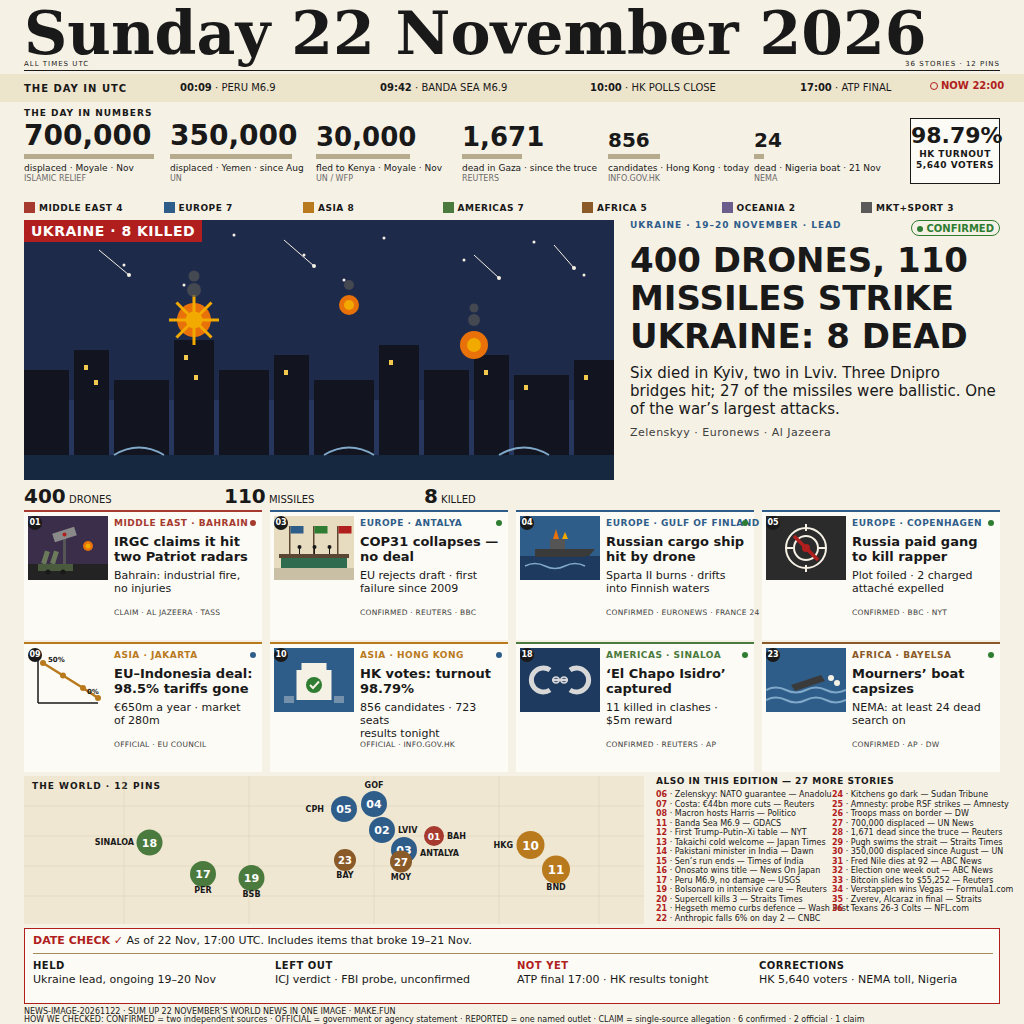
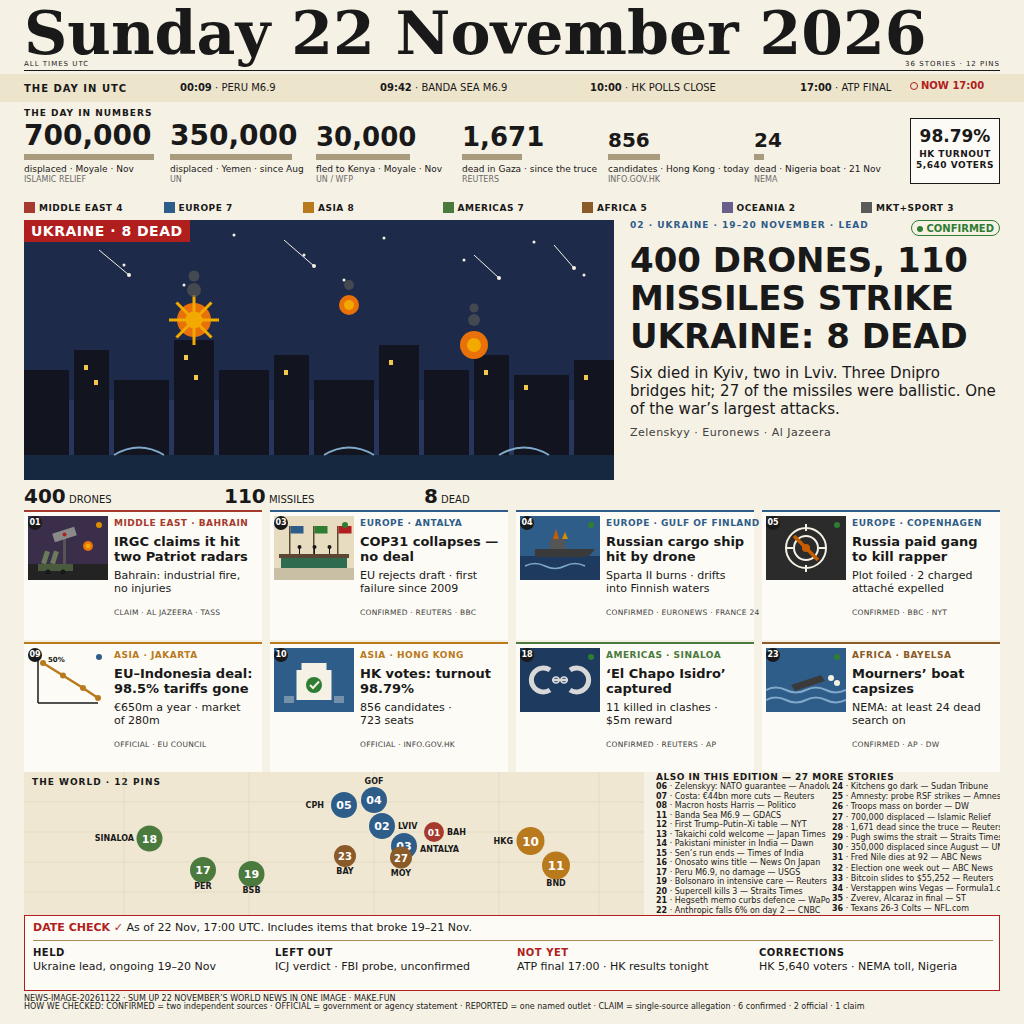
v11: Superbot fix plan (12 steps) — one clock 17:00, ALSO ON clipped, chip re-sized, 8 DEAD x3, red to four uses, footer ends 1010

diff --git a/build/front.html b/build/front.html
@@ -19,11 +19,11 @@ body { width:2048px; height:2048px; background:#F6F1E5; font-family:'DejaVu Sans
 .nlab { position:absolute; left:48px; top:216px; font-size:18px; font-weight:bold; letter-spacing:2px; white-space:nowrap; }
 .nfig { position:absolute; top:212px; width:260px; }
 .nfig .f { font-weight:bold; line-height:1; white-space:nowrap; }
-.nfig .bar { height:10px; background:#B7AB8E; margin-top:8px; }
+.nfig .bar { height:12px; background:#A89B7E; margin-top:8px; }
 .nfig .l { font-size:18px; margin-top:8px; white-space:nowrap; }
 .nfig .s { font-size:16px; color:#6B6B6B; margin-top:2px; white-space:nowrap; }
 .ratechip { position:absolute; left:1820px; top:236px; width:180px; height:132px; border:2px solid #191919; background:#FDFBF5; text-align:center; }
-.ratechip .r { font-size:44px; font-weight:bold; line-height:48px; margin-top:10px; }
+.ratechip .r { font-size:34px; font-weight:bold; line-height:48px; margin-top:10px; }
 .ratechip .t { font-size:18px; font-weight:bold; letter-spacing:1px; margin-top:2px; }
 /* ---- REGION STRIP 396-432 ---- */
 .key { position:absolute; top:396px; height:36px; }
@@ -46,23 +46,24 @@ body { width:2048px; height:2048px; background:#F6F1E5; font-family:'DejaVu Sans
 .card { position:absolute; width:476px; height:260px; background:#FDFBF5; }
 .card .toprule { position:absolute; left:0; top:0; width:476px; height:4px; }
 .card .num { position:absolute; left:8px; top:12px; width:28px; height:28px; border-radius:50%; background:#191919; color:#FFFFFF; font-size:16px; font-weight:bold; text-align:center; line-height:28px; z-index:2; }
-.card .vdot { position:absolute; right:12px; top:20px; width:12px; height:12px; border-radius:50%; z-index:2; }
+.card .vdot { position:absolute; left:144px; top:24px; width:12px; height:12px; border-radius:50%; z-index:2; }
 .card .kick { position:absolute; left:180px; top:16px; font-size:18px; font-weight:bold; letter-spacing:1px; white-space:nowrap; }
 .card .head { position:absolute; left:180px; top:48px; width:284px; font-size:26px; font-weight:bold; line-height:30px; }
 .card .dek { position:absolute; left:180px; top:118px; width:284px; font-size:22px; line-height:26px; color:#191919; }
 .card .src { position:absolute; left:180px; top:196px; font-size:15px; letter-spacing:0.5px; color:#404040; white-space:nowrap; }
 /* ---- MAP + ALSO ON 1552-1848 ---- */
-.mapbox { position:absolute; left:48px; top:1552px; width:1240px; height:296px; background:#EFE7D2; }
+.mapbox { position:absolute; left:48px; top:1544px; width:1240px; height:286px; background:#EFE7D2; overflow:hidden; }
 .mapbox .mlab { position:absolute; left:16px; top:10px; font-size:18px; font-weight:bold; letter-spacing:2px; }
 .pin { position:absolute; border-radius:50%; color:#FFFFFF; font-weight:bold; text-align:center; }
 .pslug { position:absolute; font-size:16px; font-weight:bold; white-space:nowrap; }
-.lst { position:absolute; left:1312px; top:1552px; width:688px; height:296px; }
+.lst { position:absolute; left:1312px; top:1544px; width:688px; height:286px; }
 .lst .lh { font-size:18px; font-weight:bold; letter-spacing:1px; white-space:nowrap; }
-.lst .col { position:absolute; top:28px; width:336px; }
+.lst .col { position:absolute; top:20px; width:336px; overflow:hidden; }
+.lst .col.r .row { line-height:20.4px; }
 .lst .row { font-size:16px; line-height:19px; white-space:nowrap; }
-.lst .row .n { font-weight:bold; color:#B01E1E; }
+.lst .row .n { font-weight:bold; color:#191919; }
 /* ---- DATE CHECK 1856-2008 ---- */
-.dc { position:absolute; left:48px; top:1856px; width:1952px; height:152px; border:3px solid #B01E1E; background:#FDFBF5; }
+.dc { position:absolute; left:48px; top:1830px; width:1952px; height:152px; border:3px solid #B01E1E; background:#FDFBF5; }
 .dc .l { position:absolute; left:16px; top:10px; width:1920px; font-size:22px; white-space:nowrap; }
 .dc .l b { color:#B01E1E; }
 .dc .drule { position:absolute; left:16px; top:48px; width:1920px; border-top:2px solid #A68B5B; }
@@ -79,14 +80,14 @@ body { width:2048px; height:2048px; background:#F6F1E5; font-family:'DejaVu Sans
 <div class="mastsmall" style="right:48px;">36 STORIES &middot; 12 PINS</div>
 <div class="rule" style="left:48px; top:140px; width:1952px; height:2px;"></div>
 
-<!-- THE DAY IN UTC 148-204 : one row, four events at 10px display (20px at 2x), red NOW at 22:00 -->
+<!-- THE DAY IN UTC 148-204 : one row, four events at 10px display (20px at 2x), red NOW at 17:00 -->
 <div class="tlbg"></div>
 <div class="tllab">THE DAY IN UTC</div>
 <div class="tick" style="left:360px;"><b>00:09</b> &middot; PERU M6.9</div>
 <div class="tick" style="left:760px;"><b>09:42</b> &middot; BANDA SEA M6.9</div>
 <div class="tick" style="left:1180px;"><b>10:00</b> &middot; HK POLLS CLOSE</div>
 <div class="tick" style="left:1600px;"><b>17:00</b> &middot; ATP FINAL</div>
-<div class="nowmark" style="left:1860px;"><span class="ring"></span>NOW 22:00</div>
+<div class="nowmark" style="left:1820px;"><span class="ring"></span>NOW 17:00</div>
 
 <!-- THE DAY IN NUMBERS 212-388 : six counts, shared baseline, log-scale bars, 3 numeral steps, rate chip -->
 <div class="nlab">THE DAY IN NUMBERS</div>
@@ -109,14 +110,14 @@ body { width:2048px; height:2048px; background:#F6F1E5; font-family:'DejaVu Sans
 
 <!-- LEAD 440-1012 : one story, full width. Illustration 1180x520 (590x260 display), headline 76px at 2x on 3 lines, dek 30px at 2x on 3 lines, counts row beneath the illustration -->
 <svg class="leadimg" width="1180" height="520" viewBox="0 0 1180 520"><rect width="1180" height="520" fill="#1E2A4A"/><rect y="360" width="1180" height="160" fill="#26365C"/><g fill="#F6F1E5"><circle cx="80" cy="40" r="3"/><circle cx="200" cy="90" r="3"/><circle cx="420" cy="30" r="3"/><circle cx="560" cy="70" r="3"/><circle cx="720" cy="36" r="3"/><circle cx="880" cy="80" r="3"/><circle cx="1020" cy="44" r="3"/><circle cx="1120" cy="110" r="3"/><circle cx="320" cy="130" r="3"/><circle cx="640" cy="120" r="3"/></g><g stroke="#F6F1E5" stroke-width="2"><line x1="150" y1="60" x2="210" y2="110"/><line x1="520" y1="40" x2="580" y2="92"/><line x1="900" y1="70" x2="950" y2="116"/><line x1="1060" y1="50" x2="1100" y2="96"/></g><g fill="#F6F1E5"><circle cx="210" cy="110" r="4"/><circle cx="580" cy="92" r="4"/><circle cx="950" cy="116" r="4"/><circle cx="1100" cy="96" r="4"/></g><g fill="#12141F"><rect x="0" y="300" width="90" height="220"/><rect x="100" y="260" width="70" height="260"/><rect x="180" y="320" width="110" height="200"/><rect x="300" y="240" width="80" height="280"/><rect x="390" y="300" width="100" height="220"/><rect x="500" y="270" width="70" height="250"/><rect x="580" y="320" width="120" height="200"/><rect x="710" y="250" width="80" height="270"/><rect x="800" y="300" width="90" height="220"/><rect x="900" y="270" width="70" height="250"/><rect x="980" y="310" width="110" height="210"/><rect x="1100" y="280" width="80" height="240"/></g><g fill="#F2C94C"><rect x="120" y="290" width="8" height="10"/><rect x="140" y="320" width="8" height="10"/><rect x="320" y="270" width="8" height="10"/><rect x="340" y="310" width="8" height="10"/><rect x="520" y="300" width="8" height="10"/><rect x="730" y="280" width="8" height="10"/><rect x="920" y="300" width="8" height="10"/><rect x="1000" y="330" width="8" height="10"/><rect x="1120" y="310" width="8" height="10"/></g><g><circle cx="340" cy="200" r="34" fill="#E8710A"/><circle cx="340" cy="200" r="17" fill="#F2A900"/><path d="M340 150 L340 250 M290 200 L390 200 M305 165 L375 235 M375 165 L305 235" stroke="#F2A900" stroke-width="6"/><circle cx="900" cy="250" r="28" fill="#E8710A"/><circle cx="900" cy="250" r="14" fill="#F2A900"/><circle cx="650" cy="170" r="20" fill="#E8710A"/><circle cx="650" cy="170" r="10" fill="#F2A900"/></g><g fill="#555555" opacity="0.7"><circle cx="340" cy="140" r="14"/><circle cx="340" cy="112" r="11"/><circle cx="900" cy="200" r="12"/><circle cx="900" cy="176" r="9"/><circle cx="650" cy="130" r="10"/></g><rect y="470" width="1180" height="50" fill="#16283F"/><g stroke="#7FA8C9" stroke-width="4" fill="none"><path d="M180 470 Q230 440 280 470"/><path d="M600 470 Q650 440 700 470"/><path d="M950 470 Q1000 440 1050 470"/></g></svg>
-<div class="leadban">UKRAINE &middot; 8 KILLED</div>
+<div class="leadban">UKRAINE &middot; 8 DEAD</div>
 <div class="counts">
   <div class="c" style="left:0;"><b>400</b> DRONES</div>
   <div class="c" style="left:400px;"><b>110</b> MISSILES</div>
-  <div class="c" style="left:800px;"><b>8</b> KILLED</div>
+  <div class="c" style="left:800px;"><b>8</b> DEAD</div>
 </div>
 <div class="leadtext">
-  <div class="kick">UKRAINE &middot; 19&ndash;20 NOVEMBER &middot; LEAD</div>
+  <div class="kick">02 &middot; UKRAINE &middot; 19&ndash;20 NOVEMBER &middot; LEAD</div>
   <div class="bdg"><span class="dot"></span>CONFIRMED</div>
   <div class="head">400 DRONES, 110<br>MISSILES STRIKE<br>UKRAINE: 8 DEAD</div>
   <div class="dek">Six died in Kyiv, two in Lviv. Three Dnipro bridges hit; 27 of the missiles were ballistic. One of the war&rsquo;s largest attacks.</div>
@@ -126,7 +127,7 @@ body { width:2048px; height:2048px; background:#F6F1E5; font-family:'DejaVu Sans
 <!-- SECONDARY CARDS 1020-1544 : eight cards, 2 rows of 4, one 476x260 template (238x130 display) -->
 <div class="card" style="left:48px; top:1020px;">
 <svg width="160" height="128" viewBox="0 0 160 128" style="position:absolute; left:8px; top:12px;"><rect width="160" height="128" fill="#3A2E4A"/><rect y="96" width="160" height="32" fill="#232323"/><rect x="70" y="40" width="6" height="56" fill="#555555"/><rect x="50" y="28" width="46" height="18" fill="#8A8A8A" transform="rotate(-18 73 37)"/><circle cx="73" cy="37" r="4" fill="#B01E1E"/><g fill="#6B7A5A"><rect x="30" y="70" width="10" height="26" transform="rotate(18 35 83)"/><rect x="48" y="70" width="10" height="26" transform="rotate(18 53 83)"/></g><rect x="20" y="96" width="70" height="14" fill="#4A5A3D"/><circle cx="40" cy="112" r="5" fill="#191919"/><circle cx="70" cy="112" r="5" fill="#191919"/><circle cx="120" cy="60" r="10" fill="#E8710A"/><circle cx="120" cy="60" r="5" fill="#F2A900"/></svg>
-<div class="toprule" style="background:#A63A2E;"></div><div class="num">01</div><div class="vdot" style="background:#A63A2E;"></div>
+<div class="toprule" style="background:#A63A2E;"></div><div class="num">01</div><div class="vdot" style="background:#D98E00;"></div>
 <div class="kick" style="color:#A63A2E;">MIDDLE EAST &middot; BAHRAIN</div>
 <div class="head">IRGC claims it hit<br>two Patriot radars</div>
 <div class="dek">Bahrain: industrial fire,<br>no injuries</div>
@@ -141,7 +142,7 @@ body { width:2048px; height:2048px; background:#F6F1E5; font-family:'DejaVu Sans
 <div class="src">CONFIRMED &middot; REUTERS &middot; BBC</div>
 </div>
 <div class="card" style="left:1032px; top:1020px;">
-<svg width="160" height="128" viewBox="0 0 160 128" style="position:absolute; left:8px; top:12px;"><rect width="160" height="128" fill="#2F5D8A"/><rect y="80" width="160" height="48" fill="#1E3A5F"/><rect x="30" y="66" width="100" height="16" fill="#3A3A3A"/><path d="M130 66 L150 66 L138 80 L130 80 Z" fill="#3A3A3A"/><rect x="60" y="46" width="30" height="20" fill="#555555"/><path d="M66 46 L72 26 L78 46 Z" fill="#E8710A"/><path d="M84 46 L90 32 L96 46 Z" fill="#F2A900"/><path d="M10 100 q20 -10 40 0 t40 0 t40 0" stroke="#7FA8C9" stroke-width="3" fill="none"/></svg>
+<svg width="160" height="128" viewBox="0 0 160 128" style="position:absolute; left:8px; top:12px;"><rect width="160" height="128" fill="#2F5D8A"/><rect y="80" width="160" height="48" fill="#1E3A5F"/><rect x="30" y="66" width="100" height="16" fill="#3A3A3A"/><path d="M130 66 L150 66 L138 80 L130 80 Z" fill="#3A3A3A"/><rect x="60" y="46" width="30" height="20" fill="#555555"/><path d="M66 46 L72 26 L78 46 Z" fill="#C65D00"/><path d="M84 46 L90 32 L96 46 Z" fill="#D98E00"/><path d="M10 100 q20 -10 40 0 t40 0 t40 0" stroke="#7FA8C9" stroke-width="3" fill="none"/></svg>
 <div class="toprule" style="background:#2F5D8A;"></div><div class="num">04</div><div class="vdot" style="background:#2E7D32;"></div>
 <div class="kick" style="color:#2F5D8A;">EUROPE &middot; GULF OF FINLAND</div>
 <div class="head">Russian cargo ship<br>hit by drone</div>
@@ -149,7 +150,7 @@ body { width:2048px; height:2048px; background:#F6F1E5; font-family:'DejaVu Sans
 <div class="src">CONFIRMED &middot; EURONEWS &middot; FRANCE 24</div>
 </div>
 <div class="card" style="left:1524px; top:1020px;">
-<svg width="160" height="128" viewBox="0 0 160 128" style="position:absolute; left:8px; top:12px;"><rect width="160" height="128" fill="#2B2B2B"/><circle cx="80" cy="64" r="40" fill="none" stroke="#F6F1E5" stroke-width="4"/><circle cx="80" cy="64" r="24" fill="none" stroke="#F6F1E5" stroke-width="4"/><circle cx="80" cy="64" r="8" fill="#B01E1E"/><path d="M80 16 L80 30 M80 98 L80 112 M40 64 L54 64 M106 64 L120 64" stroke="#F6F1E5" stroke-width="4"/><path d="M56 40 L104 88" stroke="#B01E1E" stroke-width="7"/></svg>
+<svg width="160" height="128" viewBox="0 0 160 128" style="position:absolute; left:8px; top:12px;"><rect width="160" height="128" fill="#2B2B2B"/><circle cx="80" cy="64" r="40" fill="none" stroke="#F6F1E5" stroke-width="4"/><circle cx="80" cy="64" r="24" fill="none" stroke="#F6F1E5" stroke-width="4"/><circle cx="80" cy="64" r="8" fill="#C65D00"/><path d="M80 16 L80 30 M80 98 L80 112 M40 64 L54 64 M106 64 L120 64" stroke="#F6F1E5" stroke-width="4"/><path d="M56 40 L104 88" stroke="#C65D00" stroke-width="7"/></svg>
 <div class="toprule" style="background:#2F5D8A;"></div><div class="num">05</div><div class="vdot" style="background:#2E7D32;"></div>
 <div class="kick" style="color:#2F5D8A;">EUROPE &middot; COPENHAGEN</div>
 <div class="head">Russia paid gang<br>to kill rapper</div>
@@ -157,7 +158,7 @@ body { width:2048px; height:2048px; background:#F6F1E5; font-family:'DejaVu Sans
 <div class="src">CONFIRMED &middot; BBC &middot; NYT</div>
 </div>
 <div class="card" style="left:48px; top:1284px;">
-<svg width="160" height="128" viewBox="0 0 160 128" style="position:absolute; left:8px; top:12px;"><rect width="160" height="128" fill="#FDFBF5"/><path d="M20 110 L140 110" stroke="#191919" stroke-width="3"/><path d="M20 16 L20 110" stroke="#191919" stroke-width="3"/><path d="M30 30 L70 55 L110 80 L140 100" stroke="#B97A1E" stroke-width="5" fill="none"/><g fill="#B97A1E"><circle cx="30" cy="30" r="6"/><circle cx="70" cy="55" r="6"/><circle cx="110" cy="80" r="6"/><circle cx="140" cy="100" r="6"/></g><text x="40" y="28" font-family="DejaVu Sans" font-size="14" font-weight="bold" fill="#191919">50%</text><text x="118" y="92" font-family="DejaVu Sans" font-size="14" font-weight="bold" fill="#191919">0%</text></svg>
+<svg width="160" height="128" viewBox="0 0 160 128" style="position:absolute; left:8px; top:12px;"><rect width="160" height="128" fill="#FDFBF5"/><path d="M20 110 L140 110" stroke="#191919" stroke-width="3"/><path d="M20 16 L20 110" stroke="#191919" stroke-width="3"/><path d="M30 30 L70 55 L110 80 L140 100" stroke="#B97A1E" stroke-width="5" fill="none"/><g fill="#B97A1E"><circle cx="30" cy="30" r="6"/><circle cx="70" cy="55" r="6"/><circle cx="110" cy="80" r="6"/><circle cx="140" cy="100" r="6"/></g><text x="40" y="28" font-family="DejaVu Sans" font-size="14" font-weight="bold" fill="#191919">50%</text></svg>
 <div class="toprule" style="background:#B97A1E;"></div><div class="num">09</div><div class="vdot" style="background:#2F5D8A;"></div>
 <div class="kick" style="color:#B97A1E;">ASIA &middot; JAKARTA</div>
 <div class="head">EU&ndash;Indonesia deal:<br>98.5% tariffs gone</div>
@@ -169,7 +170,7 @@ body { width:2048px; height:2048px; background:#F6F1E5; font-family:'DejaVu Sans
 <div class="toprule" style="background:#B97A1E;"></div><div class="num">10</div><div class="vdot" style="background:#2F5D8A;"></div>
 <div class="kick" style="color:#B97A1E;">ASIA &middot; HONG KONG</div>
 <div class="head">HK votes: turnout<br>98.79%</div>
-<div class="dek">856 candidates &middot; 723 seats<br>results tonight</div>
+<div class="dek">856 candidates &middot;<br>723 seats</div>
 <div class="src">OFFICIAL &middot; INFO.GOV.HK</div>
 </div>
 <div class="card" style="left:1032px; top:1284px;">
@@ -196,7 +197,7 @@ body { width:2048px; height:2048px; background:#F6F1E5; font-family:'DejaVu Sans
 </div>
 <div class="lst">
 <div class="lh">ALSO IN THIS EDITION &mdash; 27 MORE STORIES</div>
-<div class="col" style="left:0;">
+<div class="col" style="left:0; width:348px;">
 <div class="row"><span class="n">06</span> &middot; Zelenskyy: NATO guarantee &mdash; Anadolu</div>
 <div class="row"><span class="n">07</span> &middot; Costa: &euro;44bn more cuts &mdash; Reuters</div>
 <div class="row"><span class="n">08</span> &middot; Macron hosts Harris &mdash; Politico</div>
@@ -209,14 +210,14 @@ body { width:2048px; height:2048px; background:#F6F1E5; font-family:'DejaVu Sans
 <div class="row"><span class="n">17</span> &middot; Peru M6.9, no damage &mdash; USGS</div>
 <div class="row"><span class="n">19</span> &middot; Bolsonaro in intensive care &mdash; Reuters</div>
 <div class="row"><span class="n">20</span> &middot; Supercell kills 3 &mdash; Straits Times</div>
-<div class="row"><span class="n">21</span> &middot; Hegseth memo curbs defence &mdash; Wash Post</div>
+<div class="row"><span class="n">21</span> &middot; Hegseth memo curbs defence &mdash; WaPo</div>
 <div class="row"><span class="n">22</span> &middot; Anthropic falls 6% on day 2 &mdash; CNBC</div>
 </div>
-<div class="col" style="left:352px;">
+<div class="col r" style="left:352px;">
 <div class="row"><span class="n">24</span> &middot; Kitchens go dark &mdash; Sudan Tribune</div>
 <div class="row"><span class="n">25</span> &middot; Amnesty: probe RSF strikes &mdash; Amnesty</div>
 <div class="row"><span class="n">26</span> &middot; Troops mass on border &mdash; DW</div>
-<div class="row"><span class="n">27</span> &middot; 700,000 displaced &mdash; UN News</div>
+<div class="row"><span class="n">27</span> &middot; 700,000 displaced &mdash; Islamic Relief</div>
 <div class="row"><span class="n">28</span> &middot; 1,671 dead since the truce &mdash; Reuters</div>
 <div class="row"><span class="n">29</span> &middot; Pugh swims the strait &mdash; Straits Times</div>
 <div class="row"><span class="n">30</span> &middot; 350,000 displaced since August &mdash; UN</div>
@@ -224,7 +225,7 @@ body { width:2048px; height:2048px; background:#F6F1E5; font-family:'DejaVu Sans
 <div class="row"><span class="n">32</span> &middot; Election one week out &mdash; ABC News</div>
 <div class="row"><span class="n">33</span> &middot; Bitcoin slides to $55,252 &mdash; Reuters</div>
 <div class="row"><span class="n">34</span> &middot; Verstappen wins Vegas &mdash; Formula1.com</div>
-<div class="row"><span class="n">35</span> &middot; Zverev, Alcaraz in final &mdash; Straits</div>
+<div class="row"><span class="n">35</span> &middot; Zverev, Alcaraz in final &mdash; ST</div>
 <div class="row"><span class="n">36</span> &middot; Texans 26-3 Colts &mdash; NFL.com</div>
 </div>
 </div>
@@ -240,7 +241,7 @@ body { width:2048px; height:2048px; background:#F6F1E5; font-family:'DejaVu Sans
 </div>
 
 <!-- FOOTER 2016-2048 -->
-<div class="foot" style="top:2016px;">NEWS-IMAGE-20261122 &middot; SUM UP 22 NOVEMBER&rsquo;S WORLD NEWS IN ONE IMAGE &middot; MAKE.FUN</div>
-<div class="foot" style="top:2032px;">HOW WE CHECKED: CONFIRMED = two independent sources &middot; OFFICIAL = government or agency statement &middot; REPORTED = one named outlet &middot; CLAIM = single-source allegation &middot; 6 confirmed &middot; 2 official &middot; 1 claim</div>
+<div class="foot" style="top:1990px;">NEWS-IMAGE-20261122 &middot; SUM UP 22 NOVEMBER&rsquo;S WORLD NEWS IN ONE IMAGE &middot; MAKE.FUN</div>
+<div class="foot" style="top:2006px;">HOW WE CHECKED: CONFIRMED = two independent sources &middot; OFFICIAL = government or agency statement &middot; REPORTED = one named outlet &middot; CLAIM = single-source allegation &middot; 6 confirmed &middot; 2 official &middot; 1 claim</div>
 
 </body></html>

diff --git a/main.py b/main.py
@@ -1,13 +1,18 @@
 #!/usr/bin/env python3
-"""news-image-20261122 entrypoint (v10): copy entry.png to /output/entry.png.
+"""news-image-20261122 entrypoint (v11): copy entry.png to /output/entry.png.
 
 Stdlib only. No network. Deterministic: the output bytes are exactly the
 input bytes, so two runs are byte-identical.
 
-v10 is the Superbot-plan redesign: one full-width lead (Russia #02), 8
-horizontal cards, 27 ALSO ON rows, 36 story slots total, and a 4-column
-DATE CHECK. The self-check below pins the v10 layout strings so a later
-edit cannot silently re-break a reviewer blocker.
+v11 is the Superbot fix-plan round on the v10 redesign: one clock at
+17:00 (NOW moved from 22:00 onto the 17:00 tick, ATP stays NOT YET),
+ALSO ON kept at 27 rows with the left column clipped so no string
+crosses into the right column, the rate chip numeral re-sized so its
+rightmost pixel lands clear of the chip border, "8 DEAD" in all three
+places, red restricted to four uses, and the footer lifted so its second
+line ends at y=1010 (14px bottom margin). The self-check below pins the
+v11 layout strings and the v11 acceptance geometry, so a later edit
+cannot silently re-break a reviewer blocker.
 """
 import hashlib
 import os
@@ -23,10 +28,10 @@ MAX_BYTES = 1024 * 1024
 
 
 def check_front() -> None:
-    """v10 self-check: fail loudly if any v10 layout string regresses.
+    """v11 self-check: fail loudly if any v11 layout string regresses.
 
     Reads build/front.html (the rendered page) and verifies the strings
-    the v10 redesign depends on. The build fails instead of shipping a
+    the v11 fix plan depends on. The build fails instead of shipping a
     page that re-breaks a reviewer blocker.
     """
     path = os.path.join(HERE, "build", "front.html")
@@ -37,8 +42,11 @@ def check_front() -> None:
     problems = []
 
     # --- lead (Russia #02, the full-width 1024x300 block) ---
-    if "UKRAINE &middot; 8 KILLED" not in html:
-        problems.append("lead banner 'UKRAINE · 8 KILLED' missing")
+    # step 9: "8 DEAD" in the banner, the headline and the counts row.
+    if "UKRAINE &middot; 8 DEAD" not in html:
+        problems.append("lead banner 'UKRAINE · 8 DEAD' missing")
+    if "8 KILLED" in html:
+        problems.append("stale '8 KILLED' still present (step 9: all three say DEAD)")
     if "400 DRONES," not in html:
         problems.append("lead headline '400 DRONES,' missing")
     if "MISSILES STRIKE" not in html:
@@ -51,6 +59,10 @@ def check_front() -> None:
         problems.append("lead dek ballistic count missing")
     if "Zelenskyy &middot; Euronews &middot; Al Jazeera" not in html:
         problems.append("lead sources 'Zelenskyy · Euronews · Al Jazeera' missing")
+
+    # step 11: lead kicker carries the story number, closing the 02 hole.
+    if "02 &middot; UKRAINE" not in html:
+        problems.append("lead kicker '02 · UKRAINE' missing (step 11)")
 
     # Lead headline must be exactly 3 lines (2 <br>) and each line short
     # enough to fit the 740px text column at 68px (<=18 chars). This is
@@ -78,12 +90,29 @@ def check_front() -> None:
     if "5,640 VOTERS" not in html:
         problems.append("rate chip '5,640 VOTERS' missing")
 
-    # --- timeline: 4 events + NOW 22:00 ---
+    # step 4: rate chip numeral re-sized so its rightmost pixel lands
+    # near x=993 (6px clear of the x=999 border). At 2x: 34px font.
+    # (v10 was 44px, no padding, and the numeral crossed the border by
+    # 2px. The plan's "26px display" would make it WIDER, not narrower:
+    # the numeral is 87px wide at 40px/2x and the chip's content box is
+    # only 90px wide, so the pixel target is what the size is computed
+    # from. Padding does not shift centred text in this render, so the
+    # size alone carries the fix.)
+    if ".ratechip .r { font-size:34px;" not in html:
+        problems.append("rate chip numeral must be 34px at 2x (step 4)")
+
+    # step 3: bars keep the six numbers, tone only (6px, one step darker).
+    if ".nfig .bar { height:12px; background:#A89B7E;" not in html:
+        problems.append("numbers bars must be 12px #A89B7E (step 3)")
+
+    # --- timeline: 4 events + ONE clock at 17:00 (ruling 1 / step 8) ---
     for ev in ("PERU M6.9", "BANDA SEA M6.9", "HK POLLS CLOSE", "ATP FINAL"):
         if ev not in html:
             problems.append(f"timeline missing {ev}")
-    if "NOW 22:00" not in html:
-        problems.append("timeline 'NOW 22:00' missing")
+    if "NOW 17:00" not in html:
+        problems.append("timeline 'NOW 17:00' missing (step 8)")
+    if "22:00" in html:
+        problems.append("stale '22:00' still present (step 8: one clock, 17:00)")
 
     # --- region strip: 7 regions, 36 stories ---
     for reg in (
@@ -115,13 +144,88 @@ def check_front() -> None:
             "must appear once"
         )
 
-    # --- map: 12 pins ---
+    # step 1: the status dot lives inside the thumbnail (6px in from its
+    # top and right edge), so it can no longer collide with a kicker.
+    if ".card .vdot { position:absolute; left:144px; top:24px;" not in html:
+        problems.append("card .vdot must sit inside the thumbnail (step 1)")
+
+    # ruling 4: CLAIM dot is amber, not red-brown.
+    if 'vdot" style="background:#D98E00;"' not in cards_html:
+        problems.append("card 01 CLAIM dot must be amber #D98E00 (ruling 4)")
+    if 'vdot" style="background:#A63A2E;"' in cards_html:
+        problems.append("a card vdot is still #A63A2E (ruling 4: CLAIM is amber)")
+
+    # ruling 4: card 04 flame and card 05 target are burnt orange, so
+    # they read as illustration, not status.
+    if 'M66 46 L72 26 L78 46 Z" fill="#C65D00"' not in html:
+        problems.append("card 04 flame must be burnt orange #C65D00 (ruling 4)")
+    if 'M84 46 L90 32 L96 46 Z" fill="#D98E00"' not in html:
+        problems.append("card 04 second flame must be #D98E00 (ruling 4)")
+    if 'r="8" fill="#C65D00"' not in html:
+        problems.append("card 05 target centre must be burnt orange (ruling 4)")
+    if 'M56 40 L104 88" stroke="#C65D00"' not in html:
+        problems.append("card 05 target slash must be burnt orange (ruling 4)")
+    if 'r="8" fill="#B01E1E"' in html:
+        problems.append("card 05 target centre is still red (ruling 4)")
+
+    # step 5: card 10 dek is two lines of counts only; "results tonight"
+    # lives in DATE CHECK, not on the card.
+    if "856 candidates &middot;<br>723 seats" not in cards_html:
+        problems.append("card 10 dek must be '856 candidates · / 723 seats' (step 5)")
+    if "results tonight" in cards_html:
+        problems.append("'results tonight' must not be on card 10 (step 5)")
+
+    # step 6: card 09 thumbnail keeps 50%, drops the 0% label.
+    if "50%" not in cards_html:
+        problems.append("card 09 '50%' label missing (step 6)")
+    if ">0%<" in cards_html:
+        problems.append("card 09 '0%' label must be dropped (step 6)")
+
+    # --- map: 12 pins, each numbered and slugged (step 11 audit) ---
     map_start = html.index("<!-- MAP")
     map_end = html.index("<!-- DATE CHECK")
     map_html = html[map_start:map_end]
     pins = map_html.count("<circle cx=")
     if pins != 12:
         problems.append(f"map pins must be 12 (found {pins})")
+    for num in ("01", "02", "03", "04", "05", "10", "11", "17", "18", "19", "23", "27"):
+        if f">{num}</text>" not in map_html:
+            problems.append(f"map pin number {num} missing (step 11)")
+    for slug in (
+        "CPH", "GOF", "LVIV", "ANTALYA", "BAH", "BAY",
+        "MOY", "HKG", "BND", "PER", "BSB", "SINALOA",
+    ):
+        if f">{slug}</text>" not in map_html:
+            problems.append(f"map pin slug {slug} missing (step 11)")
+
+    # --- ALSO ON list: 27 rows, left column clipped, pitches balanced ---
+    # step 2: left column is 348px at 2x with a clip guard, so no string
+    # can cross into the right column (right-column numbers start at
+    # x=833 display; the cap puts the clip at x=830 display).
+    if '.lst .col { position:absolute; top:20px; width:336px; overflow:hidden; }' not in html:
+        problems.append("list .col must have the overflow clip guard (step 2)")
+    if 'style="left:0; width:348px;"' not in html:
+        problems.append("list left column must be 348px at 2x (step 2)")
+    # step 3: left 14 rows at 9.5px pitch, right 13 at 10.2px pitch.
+    if ".lst .col.r .row { line-height:20.4px; }" not in html:
+        problems.append("list right column pitch must be 20.4px at 2x (step 3)")
+    # step 2 copy fixes: row 21 outlet to WaPo, row 35 to ST.
+    if "Hegseth memo curbs defence &mdash; WaPo" not in html:
+        problems.append("row 21 outlet must be 'WaPo' (step 2)")
+    if "Wash Post" in html:
+        problems.append("stale 'Wash Post' still present (step 2)")
+    if "Zverev, Alcaraz in final &mdash; ST" not in html:
+        problems.append("row 35 outlet must be 'ST' (step 2)")
+    if "in final &mdash; Straits" in html:
+        problems.append("stale row 35 'Straits' still present (step 2)")
+    # step 10: row 27 credit matches the band's source line.
+    if "700,000 displaced &mdash; Islamic Relief" not in html:
+        problems.append("row 27 credit must be 'Islamic Relief' (step 10)")
+    if "UN News" in html:
+        problems.append("stale 'UN News' still present (step 10)")
+    # ruling 4: ALSO ON numerals are ink, not red.
+    if ".lst .row .n { font-weight:bold; color:#191919; }" not in html:
+        problems.append("ALSO ON numerals must be ink #191919 (ruling 4)")
 
     # --- DATE CHECK: 4 columns, as-of settled to 17:00 UTC ---
     if "As of 22 Nov, 17:00 UTC" not in html:
@@ -131,6 +235,21 @@ def check_front() -> None:
     for col in ("HELD", "LEFT OUT", "NOT YET", "CORRECTIONS"):
         if col not in html:
             problems.append(f"DATE CHECK column {col} missing")
+
+    # --- step 7 vertical geometry: the 10px reclaim ---
+    # Map band top 1544 / height 286 at 2x => bottom 1830 (915 display);
+    # DATE CHECK top 1830 (915 display); footer line 2 top 2006 at 2x
+    # => its ink ends at y=1010 display, a 14px bottom margin.
+    if ".mapbox { position:absolute; left:48px; top:1544px; width:1240px; height:286px;" not in html:
+        problems.append("mapbox must be top 1544 / height 286 at 2x (step 7)")
+    if ".lst { position:absolute; left:1312px; top:1544px; width:688px; height:286px; }" not in html:
+        problems.append("list block must be top 1544 / height 286 at 2x (step 7)")
+    if ".dc { position:absolute; left:48px; top:1830px;" not in html:
+        problems.append("DATE CHECK must be top 1830 at 2x (step 7)")
+    if 'class="foot" style="top:1990px;"' not in html:
+        problems.append("footer line 1 must be top 1990 at 2x (step 7)")
+    if 'class="foot" style="top:2006px;"' not in html:
+        problems.append("footer line 2 must be top 2006 at 2x (step 7)")
 
     # --- 36 story slots: 1 lead + 8 cards + 27 list rows ---
     slots = (
@@ -142,10 +261,10 @@ def check_front() -> None:
         problems.append(f"story slots must be 36 (found {slots})")
 
     if problems:
-        raise SystemExit("front.html v10 check failed:\n- " + "\n- ".join(problems))
+        raise SystemExit("front.html v11 check failed:\n- " + "\n- ".join(problems))
     print(
-        f"front.html v10 check ok: 1 lead + {cards} cards + 27 list rows = "
-        f"36 slots; {pins} map pins"
+        f"front.html v11 check ok: 1 lead + {cards} cards + 27 list rows = "
+        f"36 slots; {pins} map pins; clock 17:00; footer ends 1010"
     )
 
 
